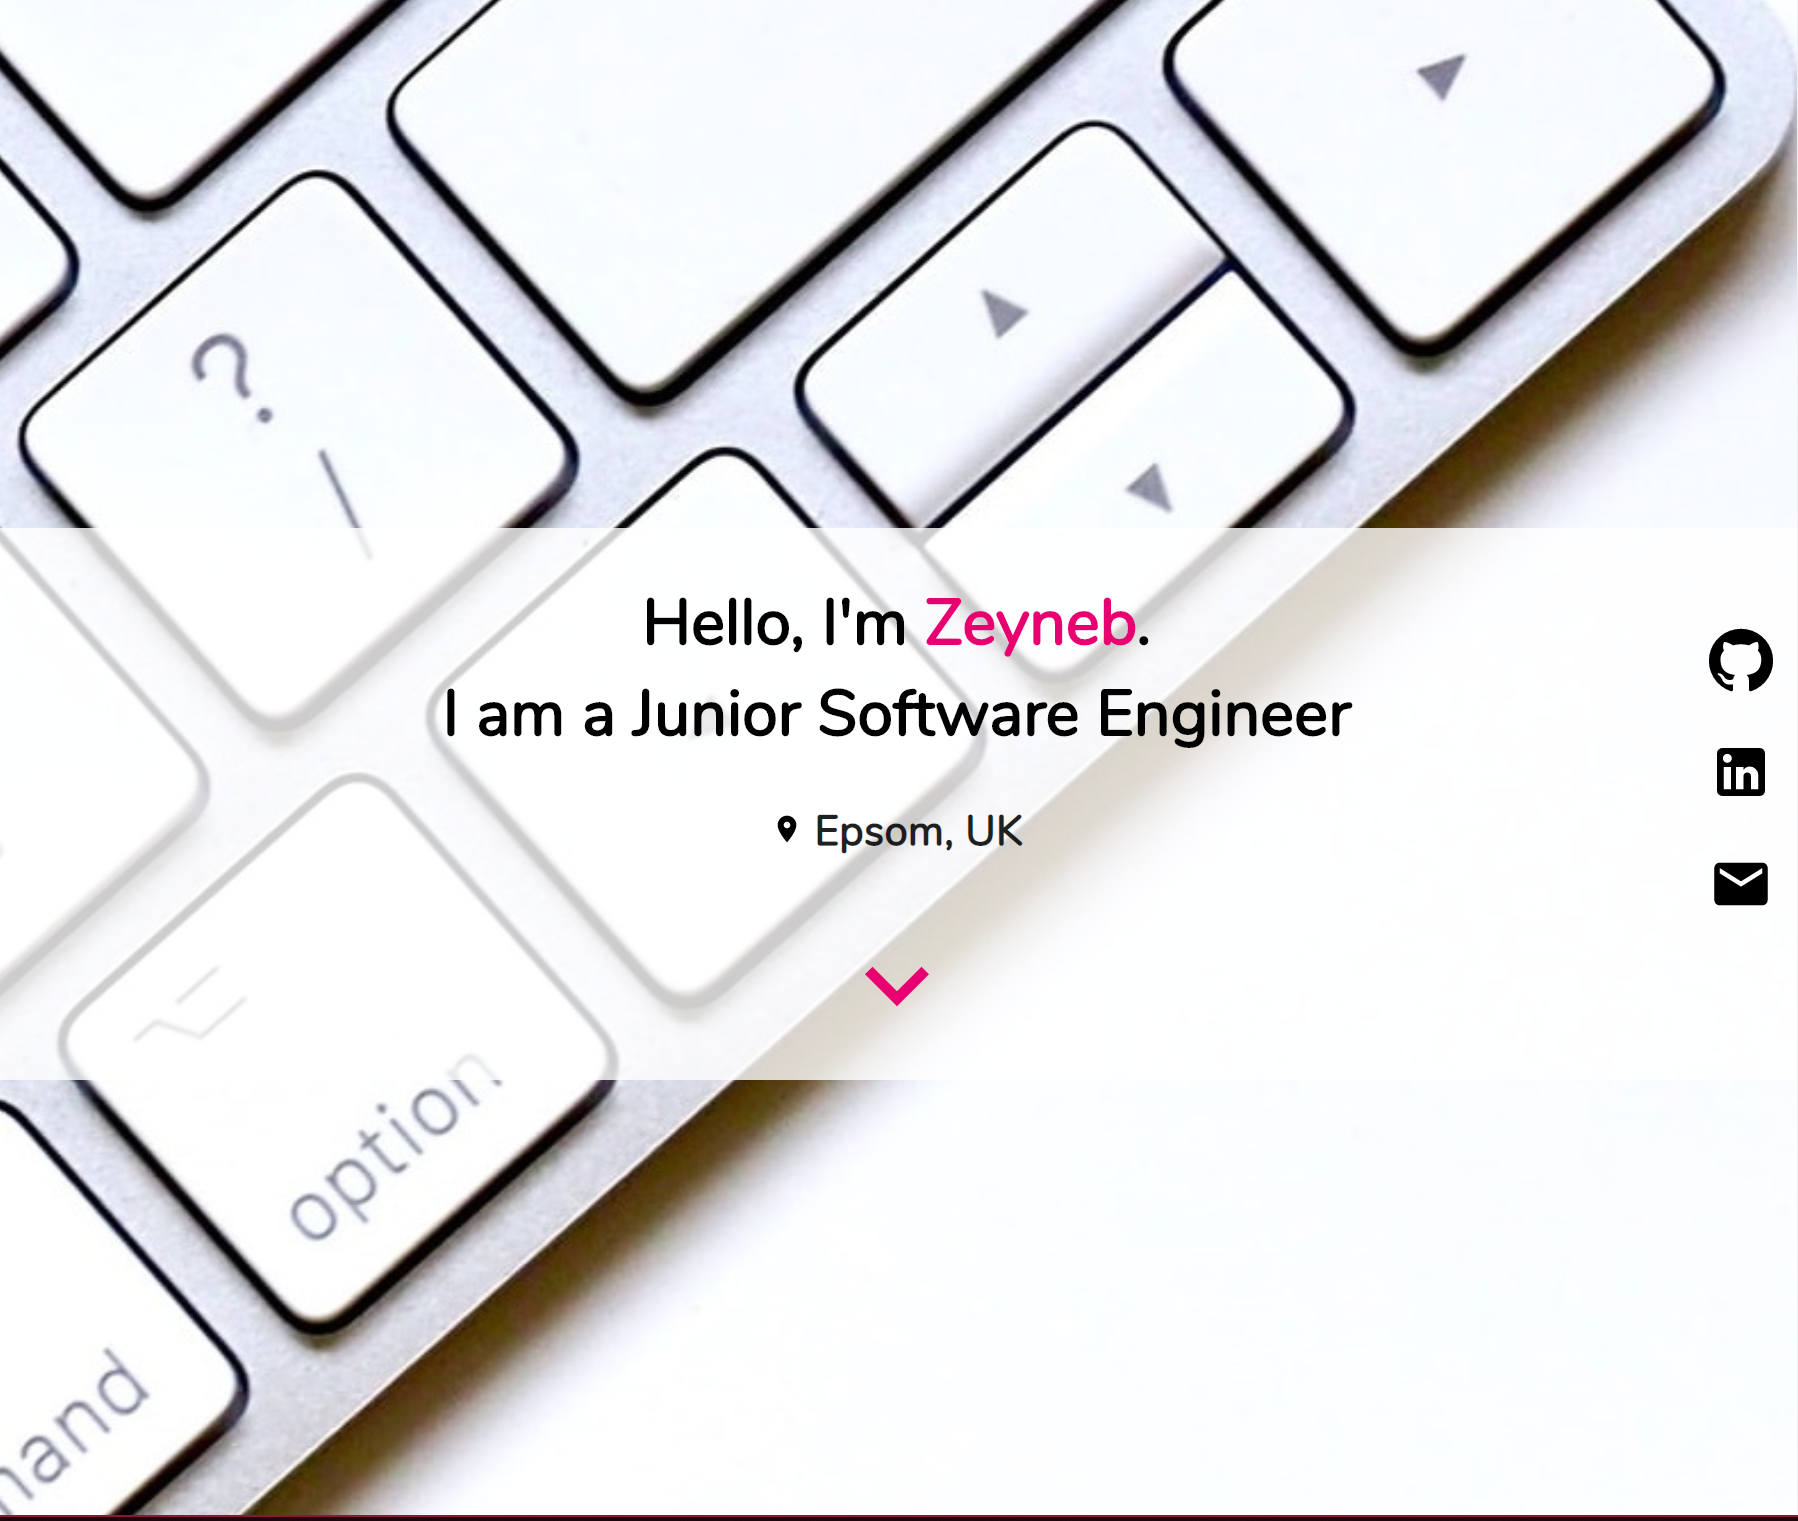
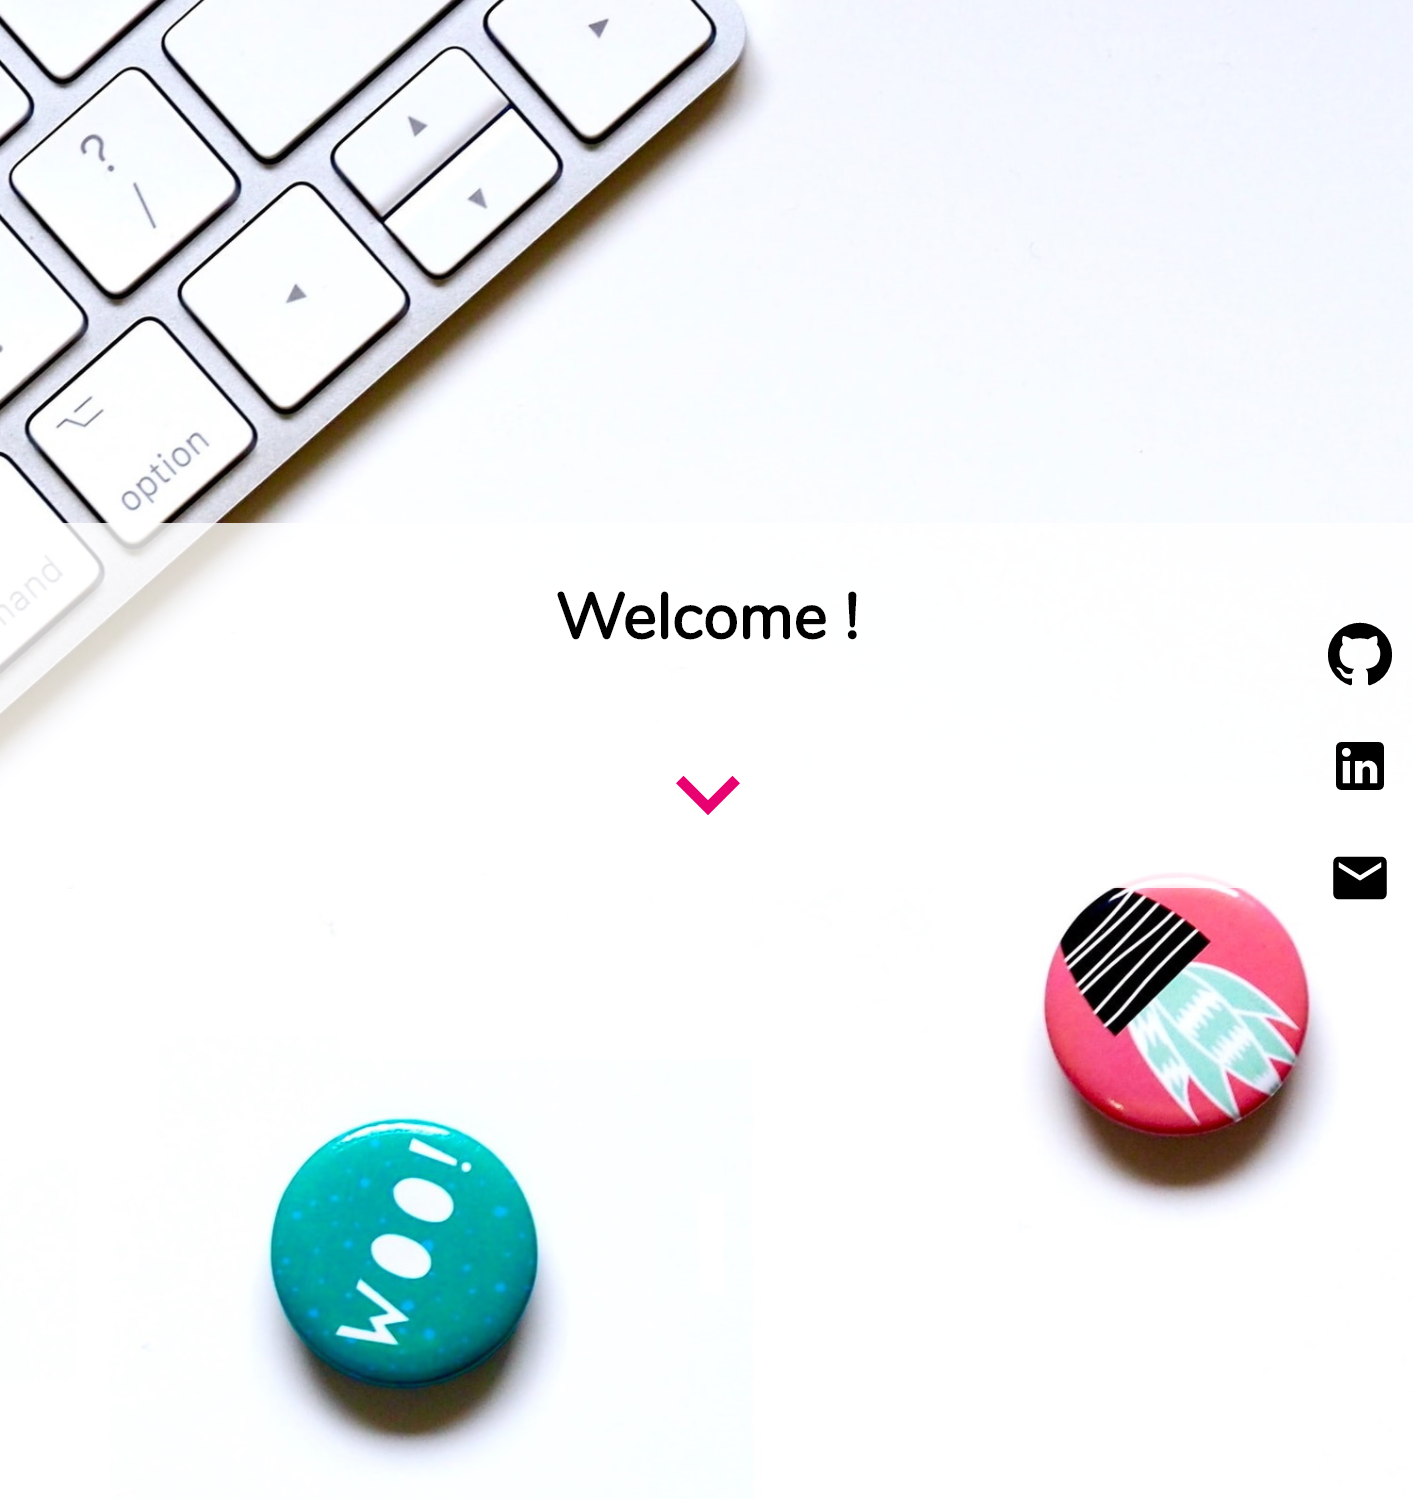
Updates

diff --git a/static/js/main.681ad61a.chunk.js b/static/js/main.681ad61a.chunk.js
@@ -1,0 +1,2 @@
+(this.webpackJsonpportfolio=this.webpackJsonpportfolio||[]).push([[0],{54:function(e,t,n){e.exports=n(73)},59:function(e,t,n){},73:function(e,t,n){"use strict";n.r(t);var o=n(0),a=n.n(o),i=n(9),r=n.n(i),c=(n(59),n(98)),l=n(108),m=n(24),s=n(109),d=n(100),u=n(39),p=n(45),g=n.n(p),h=n(44),b=n.n(h),f=n(47),v=n.n(f),w=n(46),E=n.n(w),x=n(48),y=n.n(x),N=Object(c.a)((function(e){return{root:{display:"flex",height:"100vh",fontFamily:"Nunito"},welcomeBackground:{backgroundColor:"#FFFFFFCC",width:"100%",alignItems:"center",margin:"auto",position:"absolute",top:"35%"},welcomeDiv:{padding:"0.2rem",textAlign:"center"},welcomeTxt:{color:"#000",fontSize:"2rem"},welcomeTxtColored:{color:"#e80071"},iconArrow:{color:"#e80071",fontSize:"4rem"},iconImage:{color:"#000",fontSize:"1rem"},iconButton:{color:"#000",fontSize:"2rem"},contactDiv:{width:"3.5rem",position:"fixed",right:"0",top:"40%",zIndex:"2"}}}));function k(){var e=N(),t=Object(o.useState)(!1),n=Object(m.a)(t,2),i=n[0],r=n[1];return Object(o.useEffect)((function(){r(!0)}),[]),a.a.createElement("div",{className:e.root,id:"home"},a.a.createElement("div",{className:e.welcomeBackground},a.a.createElement(s.a,Object.assign({in:i},i?{timeout:1e3}:{},{collapsedHeight:15}),a.a.createElement("div",{className:e.welcomeDiv},a.a.createElement("h1",{className:e.welcomeTxt},"Hello,   I'm   ",a.a.createElement("span",{className:e.welcomeTxtColored}," Zeyneb"),".",a.a.createElement("br",null),"I am a Junior Software Engineer"),a.a.createElement("h2",null,a.a.createElement(b.a,{className:e.iconImage})," Epsom, UK "),a.a.createElement("div",null,a.a.createElement(u.Link,{to:"project-list",smooth:!0},a.a.createElement(d.a,null,a.a.createElement(g.a,{className:e.iconArrow}))))))),a.a.createElement("div",{className:e.contactDiv},a.a.createElement(d.a,{onClick:function(){window.open("https://github.com/zeynebesendir")}},a.a.createElement(E.a,{className:e.iconButton})),a.a.createElement(d.a,{onClick:function(){window.open("https://www.linkedin.com/in/zeynebesendir")}},a.a.createElement(v.a,{className:e.iconButton})),a.a.createElement(d.a,{onClick:function(){window.open("mailto:hi.zeyneb@gmail.com")}},a.a.createElement(y.a,{className:e.iconButton}))))}var R=n(49),j=n(107),z=n(110),L=n(101),O=n(105),S=n(103),U=n(102),C=n(106),F=n(104),I=Object(c.a)({root:{maxWidth:750,height:640,backgroundColor:"#292C34",margin:"2rem",borderRadius:"12px",padding:"0.04rem"},media:{height:500,objectFit:"cover",objectPosition:"left top",backgroundColor:"#292C34",borderTopLeftRadius:"12px",borderTopRightRadius:"12px"},title:{fontFamily:"Nunito",fontWeight:"bold",color:"#fff",fontSize:18},descripton:{fontFamily:"Nunito",whiteSpace:"nowrap",overflow:"hidden",textOverflow:"ellipsis",color:"#ddd",fontSize:16},buttonTxt:{fontFamily:"Nunito",color:"#e80071",fontSize:14}});function B(e){var t=e.project,n=e.checked,o=I();return a.a.createElement(s.a,Object.assign({in:n},n?{timeout:2e3}:{}),a.a.createElement(z.a,{className:o.root},a.a.createElement(L.a,null,a.a.createElement(U.a,{className:o.media,image:t.imageURL,title:"Project",component:"img",onClick:function(){window.open(t.liveURL)}}),a.a.createElement(S.a,null,a.a.createElement(F.a,{gutterBottom:!0,variant:"h5",component:"h1",className:o.title},t.title),a.a.createElement(F.a,{variant:"body2",color:"textSecondary",component:"p",className:o.descripton},t.description))),a.a.createElement(O.a,null,a.a.createElement(C.a,{size:"medium",className:o.buttonTxt,color:"primary",onClick:function(){window.open(t.githubURL)}},"GitHub"),a.a.createElement(C.a,{size:"medium",className:o.buttonTxt,color:"primary",onClick:function(){window.open(t.liveURL)}},"Open Project"))))}var P=[{id:"P01",title:"COVID19 UK Dashboard",description:"React, JavaScript, JSON, Material-UI, DevExtreme",imageURL:"/assets/covid-dashboard.png",githubURL:"https://github.com/zeynebesendir/covid19-data-visualisation",liveURL:"https://zeynebesendir.github.io/covid19-data-visualisation/"},{id:"P02",title:"Online Shopping",description:"React, JavaScript, Firebase",imageURL:"/assets/online-shopping.png",githubURL:"https://github.com/zeynebesendir/crwn-clothing",liveURL:"https://zeynebesendir.github.io/crwn-clothing/"},{id:"P03",title:"Movie Box",description:"C#, XAML, JSON, OOP",imageURL:"/assets/movie-box.png",githubURL:"https://github.com/zeynebesendir/movie-box",liveURL:"https://github.com/zeynebesendir/movie-box"},{id:"P04",title:"Portfolio Webpage",description:"React,  JavaScript, Material-UI",imageURL:"/assets/portfolio.png",githubURL:"https://github.com/zeynebesendir/portfolio",liveURL:"https://zeynebesendir.github.io/"}];var T=Object(c.a)((function(e){return{root:Object(R.a)({flexGrow:1,minHeight:"100vh"},e.breakpoints.down("md"),{}),grid:{padding:"2rem"}}}));function J(){var e=T(),t=function(e){var t=Object(o.useState)(!1),n=Object(m.a)(t,2),a=n[0],i=n[1];return Object(o.useLayoutEffect)((function(){function t(){var t=window.document.getElementById(e).offsetHeight;window.pageYOffset>.7*t&&i(!0)}return window.addEventListener("scroll",t),t(),function(){return window.removeEventListener("scroll",t)}}),[e]),a}("home");return a.a.createElement("div",{className:e.root,id:"project-list"},a.a.createElement(j.a,{container:!0,spacing:0,className:e.grid},P.map((function(e){return a.a.createElement(j.a,{key:e.id,item:!0,xs:12,sm:12,md:12,lg:6,xl:6},a.a.createElement(B,{project:e,checked:t}))}))))}var D=Object(c.a)((function(e){return{root:{backgroundImage:"url(".concat("/assets/background.jpg",")"),backgroundRepeat:"no-repeat",backgroundSize:"cover",minHeight:"100vh"}}}));function H(){var e=D();return a.a.createElement("div",{className:e.root},a.a.createElement(l.a,null),a.a.createElement(k,null),a.a.createElement(J,null))}Boolean("localhost"===window.location.hostname||"[::1]"===window.location.hostname||window.location.hostname.match(/^127(?:\.(?:25[0-5]|2[0-4][0-9]|[01]?[0-9][0-9]?)){3}$/));r.a.render(a.a.createElement(a.a.StrictMode,null,a.a.createElement(H,null)),document.getElementById("root")),"serviceWorker"in navigator&&navigator.serviceWorker.ready.then((function(e){e.unregister()})).catch((function(e){console.error(e.message)}))}},[[54,1,2]]]);
+//# sourceMappingURL=main.681ad61a.chunk.js.map

diff --git a/index.html b/index.html
@@ -1,1 +1,1 @@
-<!doctype html><html lang="en"><head><meta charset="utf-8"/><link rel="icon" href="/favicon.ico"/><meta name="viewport" content="width=device-width,initial-scale=1"/><meta name="theme-color" content="#000000"/><meta name="description" content="Web site created using create-react-app"/><link rel="apple-touch-icon" href="/logo192.png"/><link rel="manifest" href="/manifest.json"/><link href="https://fonts.googleapis.com/css2?family=Nunito:ital,wght@0,400;1,900&display=swap" rel="stylesheet"><title></title><link href="/static/css/main.5ecd60fb.chunk.css" rel="stylesheet"></head><body><noscript>You need to enable JavaScript to run this app.</noscript><div id="root"></div><script>!function(e){function r(r){for(var n,l,f=r[0],i=r[1],p=r[2],c=0,s=[];c<f.length;c++)l=f[c],Object.prototype.hasOwnProperty.call(o,l)&&o[l]&&s.push(o[l][0]),o[l]=0;for(n in i)Object.prototype.hasOwnProperty.call(i,n)&&(e[n]=i[n]);for(a&&a(r);s.length;)s.shift()();return u.push.apply(u,p||[]),t()}function t(){for(var e,r=0;r<u.length;r++){for(var t=u[r],n=!0,f=1;f<t.length;f++){var i=t[f];0!==o[i]&&(n=!1)}n&&(u.splice(r--,1),e=l(l.s=t[0]))}return e}var n={},o={1:0},u=[];function l(r){if(n[r])return n[r].exports;var t=n[r]={i:r,l:!1,exports:{}};return e[r].call(t.exports,t,t.exports,l),t.l=!0,t.exports}l.m=e,l.c=n,l.d=function(e,r,t){l.o(e,r)||Object.defineProperty(e,r,{enumerable:!0,get:t})},l.r=function(e){"undefined"!=typeof Symbol&&Symbol.toStringTag&&Object.defineProperty(e,Symbol.toStringTag,{value:"Module"}),Object.defineProperty(e,"__esModule",{value:!0})},l.t=function(e,r){if(1&r&&(e=l(e)),8&r)return e;if(4&r&&"object"==typeof e&&e&&e.__esModule)return e;var t=Object.create(null);if(l.r(t),Object.defineProperty(t,"default",{enumerable:!0,value:e}),2&r&&"string"!=typeof e)for(var n in e)l.d(t,n,function(r){return e[r]}.bind(null,n));return t},l.n=function(e){var r=e&&e.__esModule?function(){return e.default}:function(){return e};return l.d(r,"a",r),r},l.o=function(e,r){return Object.prototype.hasOwnProperty.call(e,r)},l.p="/";var f=this.webpackJsonpportfolio=this.webpackJsonpportfolio||[],i=f.push.bind(f);f.push=r,f=f.slice();for(var p=0;p<f.length;p++)r(f[p]);var a=i;t()}([])</script><script src="/static/js/2.b2984663.chunk.js"></script><script src="/static/js/main.04128e70.chunk.js"></script></body></html>
+<!doctype html><html lang="en"><head><meta charset="utf-8"/><link rel="icon" href="/favicon.ico"/><meta name="viewport" content="width=device-width,initial-scale=1"/><meta name="theme-color" content="#000000"/><meta name="description" content="Web site created using create-react-app"/><link rel="apple-touch-icon" href="/logo192.png"/><link rel="manifest" href="/manifest.json"/><link href="https://fonts.googleapis.com/css2?family=Nunito:ital,wght@0,400;1,900&display=swap" rel="stylesheet"><title></title><link href="/static/css/main.5ecd60fb.chunk.css" rel="stylesheet"></head><body><noscript>You need to enable JavaScript to run this app.</noscript><div id="root"></div><script>!function(e){function r(r){for(var n,l,f=r[0],i=r[1],p=r[2],c=0,s=[];c<f.length;c++)l=f[c],Object.prototype.hasOwnProperty.call(o,l)&&o[l]&&s.push(o[l][0]),o[l]=0;for(n in i)Object.prototype.hasOwnProperty.call(i,n)&&(e[n]=i[n]);for(a&&a(r);s.length;)s.shift()();return u.push.apply(u,p||[]),t()}function t(){for(var e,r=0;r<u.length;r++){for(var t=u[r],n=!0,f=1;f<t.length;f++){var i=t[f];0!==o[i]&&(n=!1)}n&&(u.splice(r--,1),e=l(l.s=t[0]))}return e}var n={},o={1:0},u=[];function l(r){if(n[r])return n[r].exports;var t=n[r]={i:r,l:!1,exports:{}};return e[r].call(t.exports,t,t.exports,l),t.l=!0,t.exports}l.m=e,l.c=n,l.d=function(e,r,t){l.o(e,r)||Object.defineProperty(e,r,{enumerable:!0,get:t})},l.r=function(e){"undefined"!=typeof Symbol&&Symbol.toStringTag&&Object.defineProperty(e,Symbol.toStringTag,{value:"Module"}),Object.defineProperty(e,"__esModule",{value:!0})},l.t=function(e,r){if(1&r&&(e=l(e)),8&r)return e;if(4&r&&"object"==typeof e&&e&&e.__esModule)return e;var t=Object.create(null);if(l.r(t),Object.defineProperty(t,"default",{enumerable:!0,value:e}),2&r&&"string"!=typeof e)for(var n in e)l.d(t,n,function(r){return e[r]}.bind(null,n));return t},l.n=function(e){var r=e&&e.__esModule?function(){return e.default}:function(){return e};return l.d(r,"a",r),r},l.o=function(e,r){return Object.prototype.hasOwnProperty.call(e,r)},l.p="/";var f=this.webpackJsonpportfolio=this.webpackJsonpportfolio||[],i=f.push.bind(f);f.push=r,f=f.slice();for(var p=0;p<f.length;p++)r(f[p]);var a=i;t()}([])</script><script src="/static/js/2.b2984663.chunk.js"></script><script src="/static/js/main.681ad61a.chunk.js"></script></body></html>

diff --git a/precache-manifest.005b13c14594960ab320bddfbb6d1f1d.js b/precache-manifest.005b13c14594960ab320bddfbb6d1f1d.js
@@ -1,10 +1,10 @@
 self.__precacheManifest = (self.__precacheManifest || []).concat([
   {
-    "revision": "eb830891726720a9644810861e454591",
+    "revision": "82ad7e41e1386801654469f6b531f22c",
     "url": "/index.html"
   },
   {
-    "revision": "e2eb0a5e99ee178ba8b7",
+    "revision": "2f2d53331267e5113320",
     "url": "/static/css/main.5ecd60fb.chunk.css"
   },
   {
@@ -16,8 +16,8 @@ self.__precacheManifest = (self.__precacheManifest || []).concat([
     "url": "/static/js/2.b2984663.chunk.js.LICENSE.txt"
   },
   {
-    "revision": "e2eb0a5e99ee178ba8b7",
-    "url": "/static/js/main.04128e70.chunk.js"
+    "revision": "2f2d53331267e5113320",
+    "url": "/static/js/main.681ad61a.chunk.js"
   },
   {
     "revision": "4f2b1704eab49d50853b",

diff --git a/service-worker.js b/service-worker.js
@@ -14,7 +14,7 @@
 importScripts("https://storage.googleapis.com/workbox-cdn/releases/4.3.1/workbox-sw.js");
 
 importScripts(
-  "/precache-manifest.ee87867760744c693abad5e11effa7c1.js"
+  "/precache-manifest.005b13c14594960ab320bddfbb6d1f1d.js"
 );
 
 self.addEventListener('message', (event) => {
